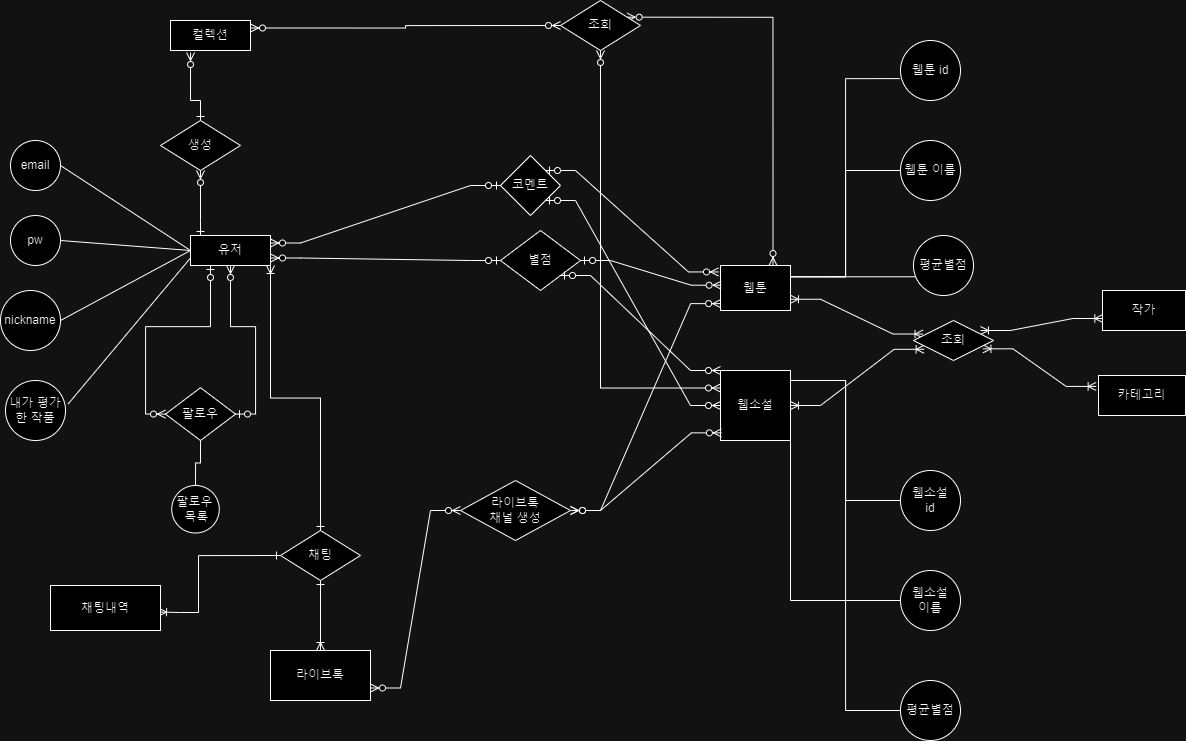
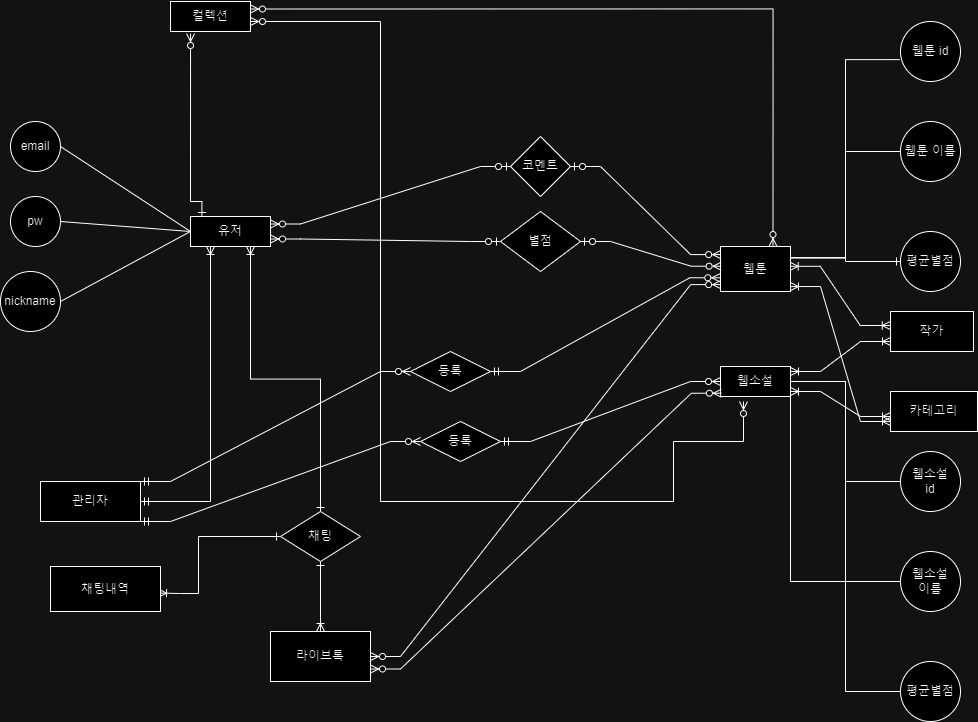
[Docs] ERD, README 수정
ERD 및 README 내용을 수정하였습니다.

diff --git a/README.md b/README.md
@@ -17,7 +17,7 @@
 
 ## ✨ 프로젝트 설명
 
-저희 서비스는 사용자가 본 웹툰/웹소설에 대해 별점 및 리뷰를 남기고 별점에 따라 사용자의 취향에 맞는 작품을 추천해주는 서비스입니다.
+저희 서비스는 사용자가 본 웹툰/웹소설에 대해 별점 및 리뷰를 남기고 컬렉션을 만들어 공유할 수 있습니다.
 또한 매주 새롭게 올라오는 회차에 대한 라이브톡을 진행하여 독자 모두가 모여 이야기하며 작품에 대한 감상을 나눌 수 있습니다.  
 
 
@@ -39,11 +39,8 @@
 또한 문체부의 보고에 따르면, 웹소설 산업의 규모는 1조 390억 원으로 나타났습니다.
 하지만 규모에 비해 작품 정보를 얻을 수 있는 충분한 곳이 부족한 상황입니다.
 
-우리는 각 사용자의 취향과 선호도를 고려하여 맞춤형 추천 서비스를 제공하여 사용자들이 
-작품 선택에 소비하는 시간을 최소화하고 더욱 즐거운 경험을 할 기회를 제공하고자 합니다.  
-
-뿐만 아니라, 동일한 작품을 공유하는 사용자 간에는 서로 다른 시각과 해석을 나누며
-다양한 관점을 탐험하여 더욱 만족스러운 작품 감상을 즐길 수 있습니다.
+우리는 동일한 작품을 공유하는 사용자 간에는 서로 다른 시각과 해석을 나누며
+다양한 관점을 탐험하여 더욱 만족스러운 작품 감상을 즐길 수 있습니다. 
 
 
 ## 📌 프로젝트 시나리오
@@ -64,12 +61,11 @@
 
 
 4. 작품을 선택하여 들어갑니다.
-    - 작품에 대한 회차별 또는 전체 작품에 대한 코멘트를 남길 수 있습니다.
+    - 작품에 대한 코멘트와 별점을 남길 수 있습니다.
       - 코멘트 글자 수는 200자를 넘길 수 없습니다.
       - 욕설/비방어는 사용할 수 없습니다. 
     - 작품에 대한 회차별 또는 전체 작품에 대한 별점을 남길 수 있습니다.
-    - 15개 이상의 작품을 평가할 경우 회차별 또는 전체 작품에 대한 내 예상 별점을 확인 할 수 있습니다.
-    - 회차별 또는 전체 작품의 전체 평균 별점을 확인할 수 있습니다.
+    - 전체 작품의 전체 평균 별점을 확인할 수 있습니다.
     - 작품의 평가 상태를 확인할 수 있습니다.
     - 작품명, 작가를 검색하여 작품을 찾을 수 있습니다.
 
@@ -78,18 +74,17 @@
 5. 사용자는 자신이 보는 웹툰/웹소설이 업로드 되는 날에 라이브톡에 들어갑니다.
     - 라이브톡은 상위 n개의 작품들에서만 진행됩니다.
     - 라이브톡에는 회원들만 참여가 가능합니다.
-    - 12시가 되면 이전의 채팅들이 사라집니다
+    - 12시가 되면 이전의 채팅들이 사라집니다.
     - 채팅들이 사라지기 전에 사용자들은 채팅 내용을 백업할 수 있습니다.
     - 라이브톡에서 욕설/비방어를 입력할 경우 채팅을 보낼 수 없다는 메세지가 뜹니다.
-    - 라이브톡에 비매너 회원이 있을 경우 신고를 할 수 있습니다.
     - 라이브톡은 상시로 참여할 수 있습니다.
     - 짧은 시간 내에 많은 개수의 채팅을 보낼 경우 도배 방지를 위해 일정 시간 동안 채팅이 금지됩니다.  
 
 
 6. 사용자는 자신이 좋아하는 작품을 클릭해 해당 작품이 담겨있는 컬렉션을 봅니다.
-    - 사용자는 자신이 좋아하는 영화, 자신이 보고 싶은 영화 등의 작품들을 담아서 컬렉션들을 만들 수 있습니다.
+    - 사용자는 작품들을 담아서 컬렉션들을 만들 수 있습니다.
     - 회원 닉네임, 컬렉션 이름을 검색하여 다른 사용자가 만든 컬렉션을 볼 수 있습니다.
-    - 작품 상세보기창에서 해당 작품이 담겨있는 다른 사용자들의 컬렉션을 볼 수 있습니다.  
+    - 작품이 담겨있는 다른 사용자들의 컬렉션을 볼 수 있습니다.  
 
 
 ## 📌 업무 배경도
@@ -99,7 +94,7 @@
 
 ## 🔍 Overview
 
-### 1. 사용자 회원 가입 및 로그인 기능(토큰 인증 방식)
+### 1. 사용자 회원 가입 및 로그인 기능
 
 <div align="center">
     <img src=""  />
@@ -128,7 +123,7 @@
 - 내 취향에 맞는 예상 별점 표시
 - 전체 평균 별점 표시
 - 평가 상태에 대한 표시(평가 완료 등..)
-- 선호하는 플랫폼 선택 후 리스트 우선 순위로 출력
+
 
 <br>
 
